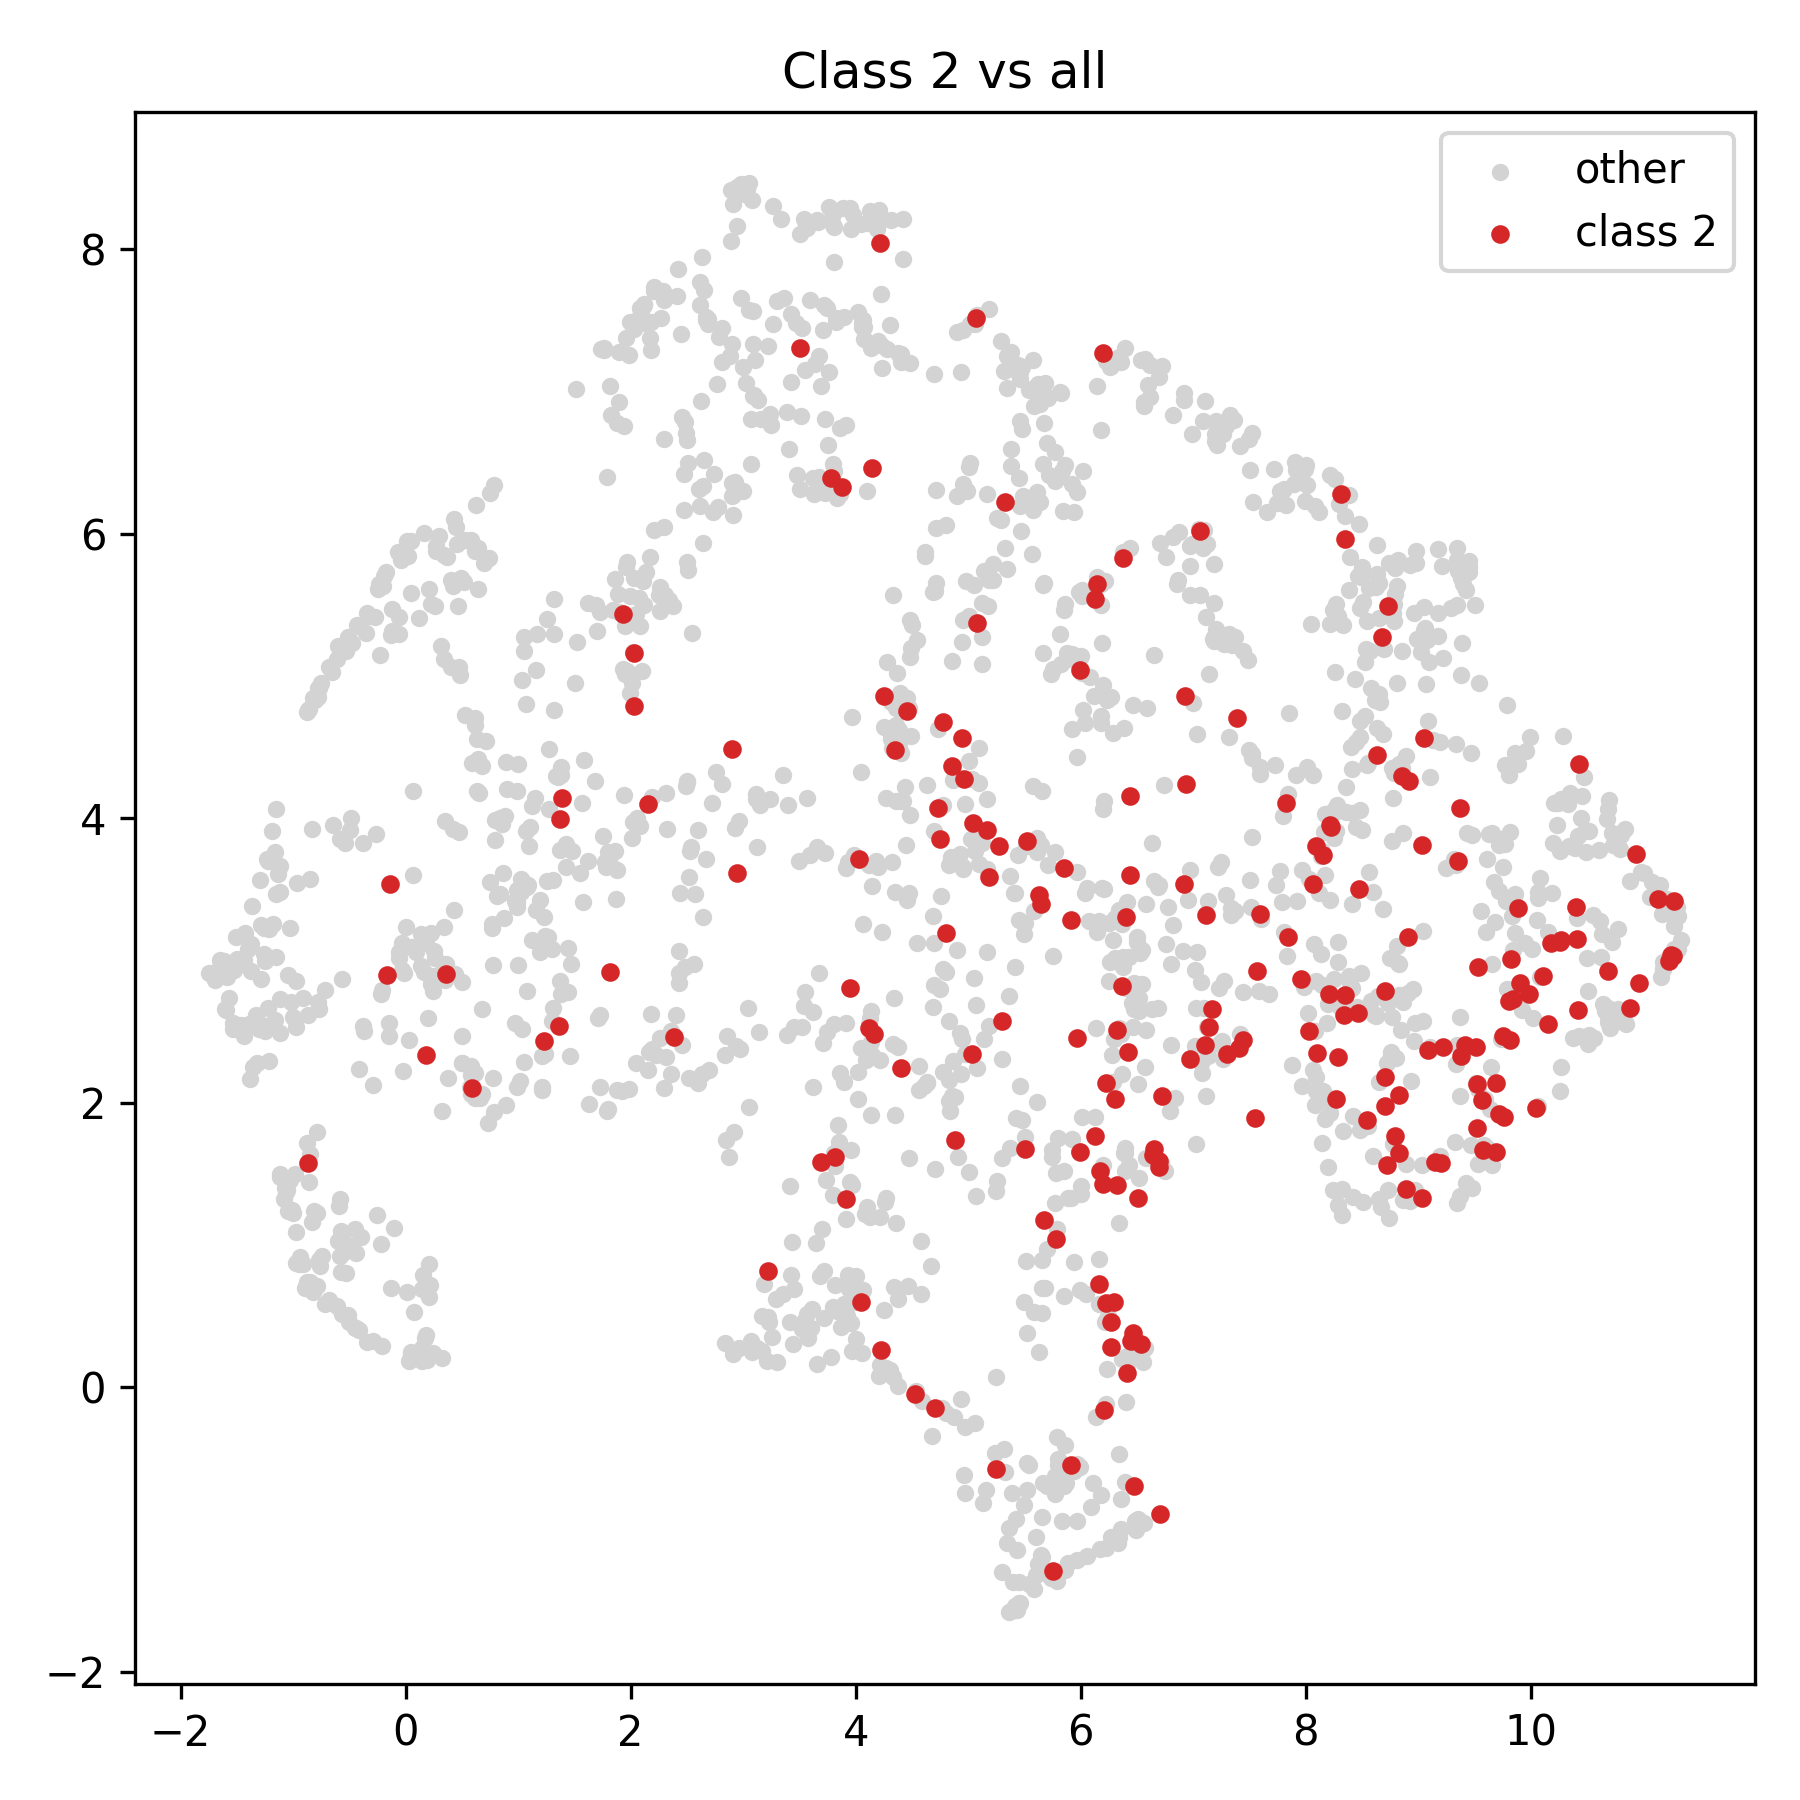
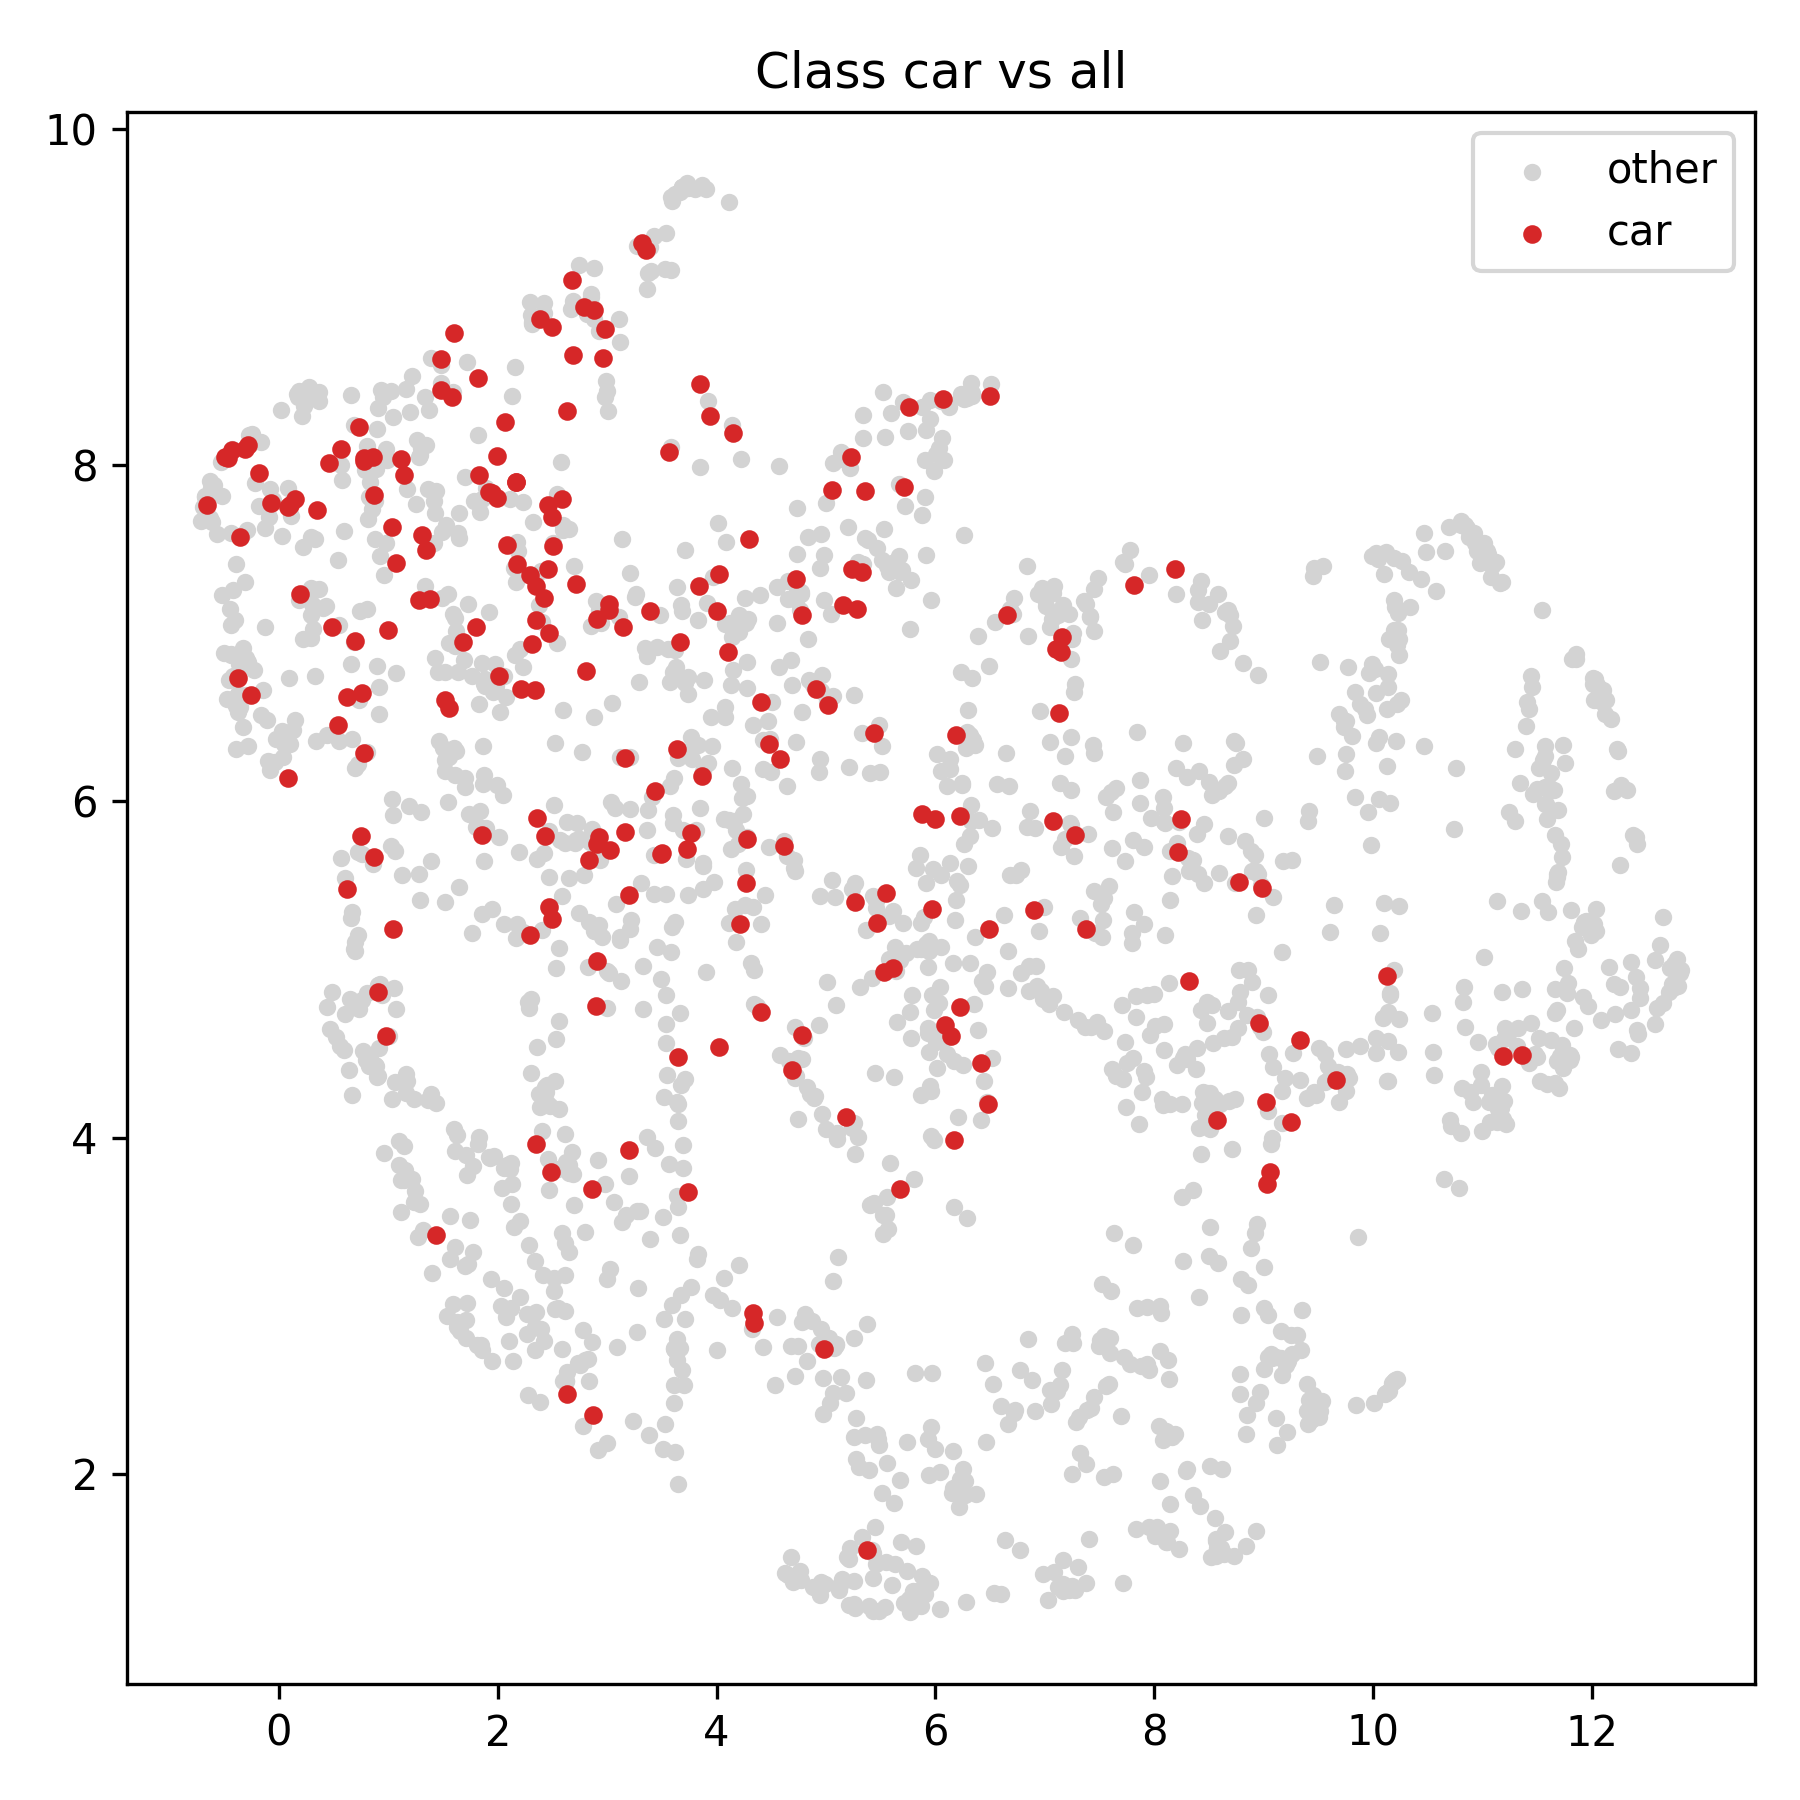
refactor: use class names in visualization

diff --git a/scripts/evaluation/visualize_representation.py b/scripts/evaluation/visualize_representation.py
@@ -172,18 +172,30 @@ def project(features, method="umap"):
 # --------------------------------------------------
 # Plot
 # --------------------------------------------------
-def plot_embedding(Z, y, out_path, title_extra):
+def plot_embedding(Z, y, out_path, title_extra, class_names):
     plt.figure(figsize=(8, 8))
-    scatter = plt.scatter(Z[:, 0], Z[:, 1], c=y, s=12, cmap="tab10")
-    plt.colorbar(scatter, ticks=sorted(np.unique(y)))
+
+    # unique sorted classes
+    classes = np.unique(y)
+
+    for cls in classes:
+        mask = y == cls
+        plt.scatter(
+            Z[mask, 0],
+            Z[mask, 1],
+            s=12,
+            label=class_names[cls],
+        )
+
     plt.title(f"2D feature projection ({title_extra})")
+    plt.legend(title="Classes", bbox_to_anchor=(1.05, 1), loc="upper left")
     plt.tight_layout()
-    plt.savefig(out_path, dpi=300)
+    plt.savefig(out_path, dpi=300, bbox_inches="tight")
     plt.close()
     print(f"📁 Saved figure to {out_path}")
 
 
-def plot_class_vs_all(Z, y, class_id, out_path):
+def plot_class_vs_all(Z, y, class_id, class_name, out_path):
     plt.figure(figsize=(6, 6))
 
     # Background classes (gray)
@@ -193,10 +205,14 @@ def plot_class_vs_all(Z, y, class_id, out_path):
     # Highlight class_id
     mask_cls = y == class_id
     plt.scatter(
-        Z[mask_cls, 0], Z[mask_cls, 1], c="tab:red", s=12, label=f"class {class_id}"
+        Z[mask_cls, 0],
+        Z[mask_cls, 1],
+        c="tab:red",
+        s=12,
+        label=class_name,
     )
 
-    plt.title(f"Class {class_id} vs all")
+    plt.title(f"Class {class_name} vs all")
     plt.legend()
     plt.tight_layout()
     plt.savefig(out_path, dpi=300)
@@ -244,6 +260,7 @@ def main():
     dataloader = DataLoader(
         dataset, batch_size=args.batch_size, shuffle=True, num_workers=4
     )
+    class_names = dataset.classes
 
     print("📥 Extracting features…")
     feats, labels = extract_features(
@@ -267,9 +284,10 @@ def main():
         / f"representation_{ckpt_name}_{args.method}_{args.pool}_{args.normalize}.png"
     )
     title_info = f"{args.method}, pool={args.pool}, norm={args.normalize}"
-    plot_embedding(Z, labels, str(out_path), title_info)
+    plot_embedding(Z, labels, str(out_path), title_info, class_names)
     # Generate 10 class-vs-all plots
     for cls_id in np.unique(labels):
+        class_name = class_names[cls_id]
         out_path = (
             save_dir
             / f"representation_{ckpt_name}_{args.method}_{args.pool}_{args.normalize}.png"
@@ -278,7 +296,7 @@ def main():
             save_dir
             / f"representation_{ckpt_name}_{args.method}_{args.pool}_{args.normalize}_class{cls_id}.png"
         )
-        plot_class_vs_all(Z, labels, cls_id, str(out_cls))
+        plot_class_vs_all(Z, labels, cls_id, class_name, str(out_cls))
 
 
 if __name__ == "__main__":
